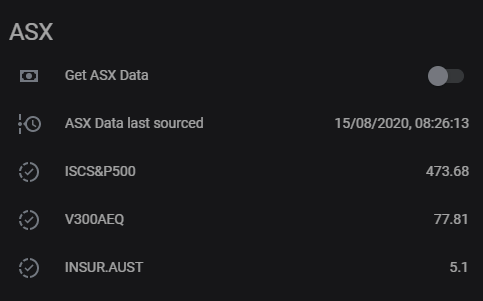
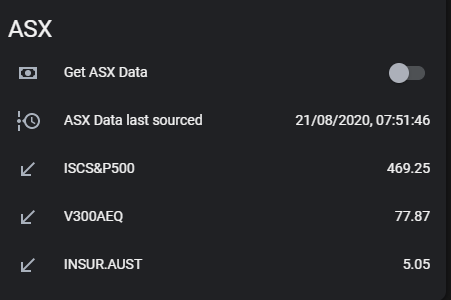
set time

diff --git a/apps/asx_sensor/asx_sensor.py b/apps/asx_sensor/asx_sensor.py
@@ -72,8 +72,8 @@ class Get_ASX_info(hass.Hass):
         # listen to HA for the flag to update the sensor
         self.listen_state(self.main, self.TICK_FLAG, new="on")
 
-        # set to run each morning at 7.27pm
-        runtime = datetime.time(17,27,0)
+        # set to run each morning at 5.17am
+        runtime = datetime.time(5,17,0)
         self.run_daily(self.daily_load, runtime)
 
     # run the app

diff --git a/readme.md b/readme.md
@@ -23,7 +23,7 @@ The [ASX](https://www.asx.com.au/) site provides this information in JSON format
 
 This information is only daily information, showing the latest close data, and other relevant information about a stock, it does not provide actual trading information.
 
-As this is non time critical sensor, it only gets the information on a set time schedule, once per day at 7.27pm after the close of the market. 
+As this is non time critical sensor, it only gets the information on a set time schedule, once per day at 5.17am before the opening of the market. 
 
 ### To Run Manually
 
